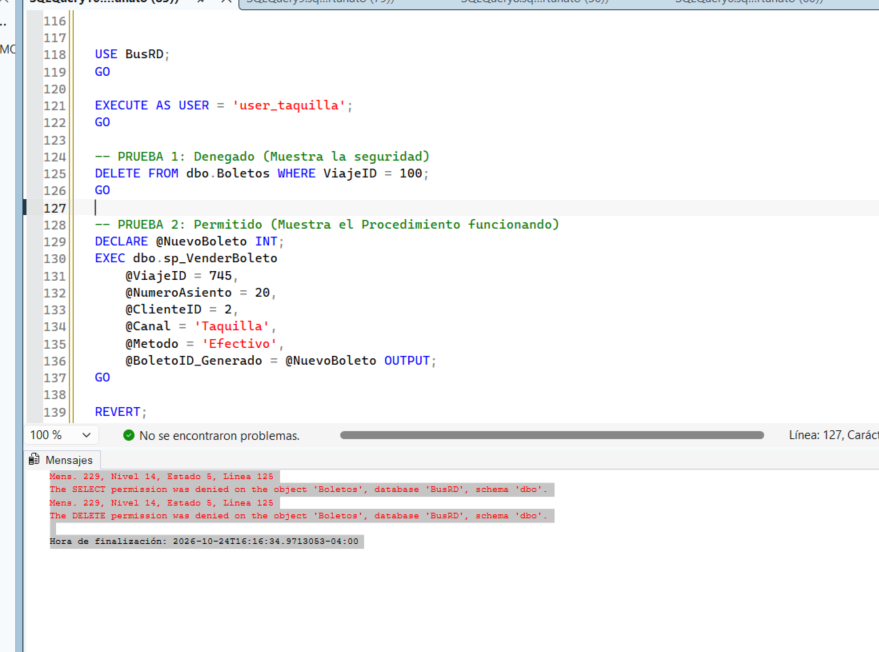
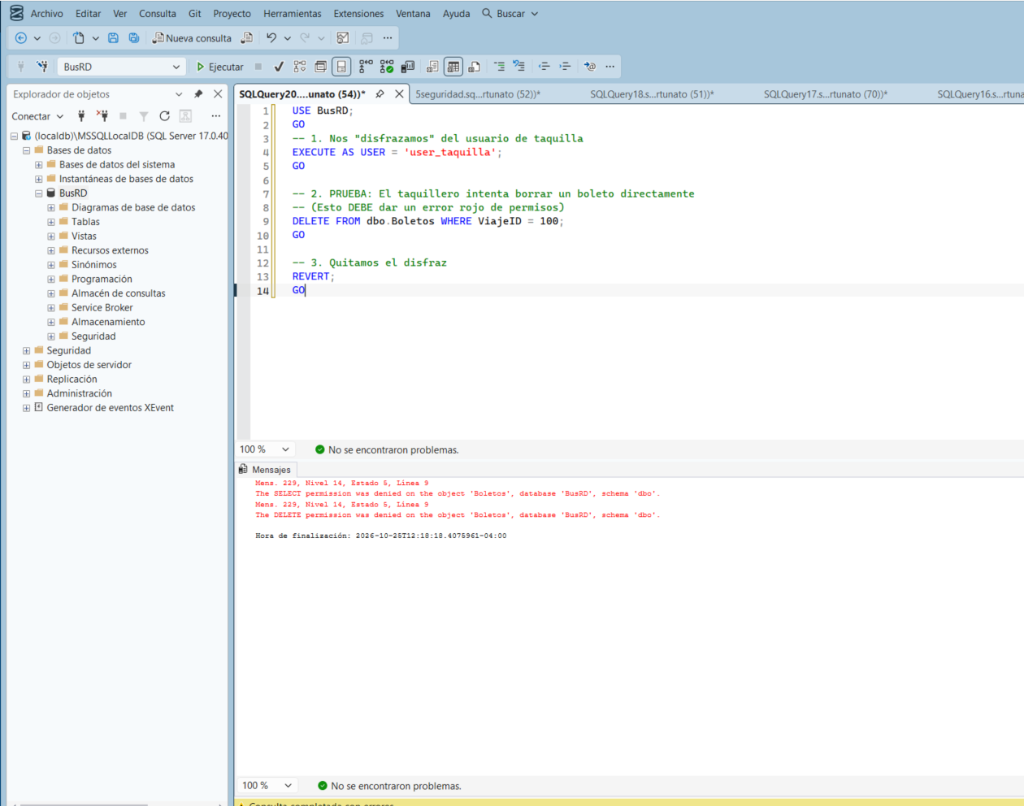
Agregar evidencia definitiva de seguridad (permisos denegados)

Changed region(s): [[0.0, 0.0, 1.0, 1.0]]

diff --git a/Documentacion_Tecnica.md b/Documentacion_Tecnica.md
@@ -103,7 +103,7 @@ DENY SELECT, INSERT, UPDATE, DELETE ON dbo.Boletos TO rol_taquilla;
 *(Evidencia de creación de vistas seguras)*
 ![Creación Vistas](assets/evidencias/06_seguridad_vistas.png)
 
-*(Pendiente: Imagen del error de permisos denegados)*
+![Prueba Seguridad](assets/evidencias/06_seguridad_permisos.png)
 ``
 Esto asegura que ni siquiera un empleado malintencionado que consiga acceso a la base de datos pueda hacer un `DELETE` directo en la tabla `Boletos`. Obligatoriamente tiene que pasar por el procedimiento almacenado que tiene nuestras validaciones.
 
